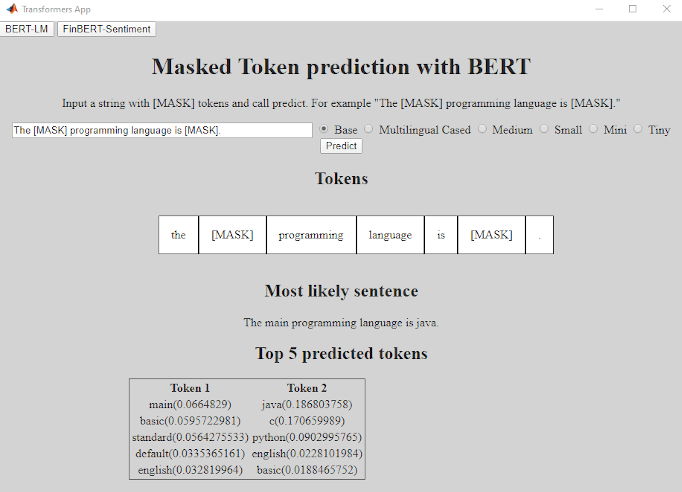
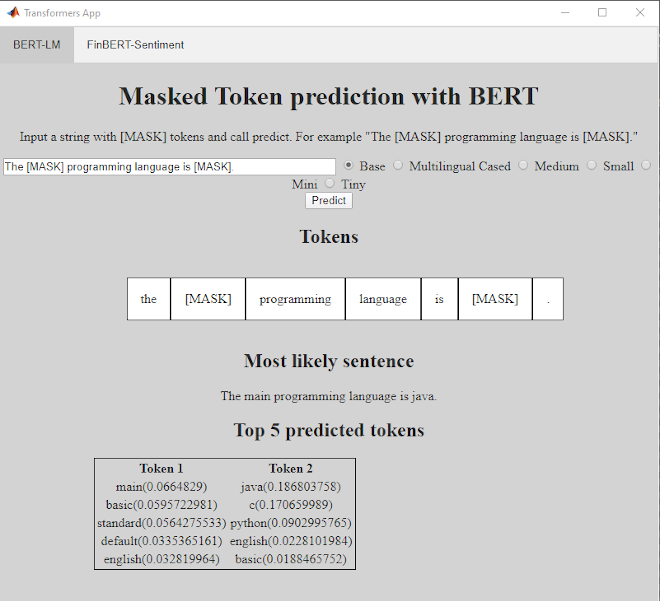
update screenshot, add hande to uihtml to app class

diff --git a/src/+transformer/+app/App.m b/src/+transformer/+app/App.m
@@ -3,6 +3,10 @@ classdef App
         EventHandlers
     end
     
+    properties(SetAccess=private)
+        UIHandle
+    end
+    
     methods
         function this = App(nvp)
             arguments
@@ -11,11 +15,11 @@ classdef App
             end
             screenSz = get(0,'ScreenSize');
             width = 800;
-            height = 400;
+            height = 800;
             app = uifigure('Position',createCenterPosition(screenSz(3),screenSz(4),width,height),'Visible',false,'Name','Transformers App');            
             app.Visible = true;
             this.EventHandlers = nvp.EventHandlers;
-            uihtml(app,'HTMLSource',nvp.SourceFile,'DataChangedFcn',@(src,event) this.callModel(src,event),'Position',[0,0,width,height]);
+            this.UIHandle = uihtml(app,'HTMLSource',nvp.SourceFile,'DataChangedFcn',@(src,event) this.callModel(src,event),'Position',[0,0,width,height]);
         end
     end
     
